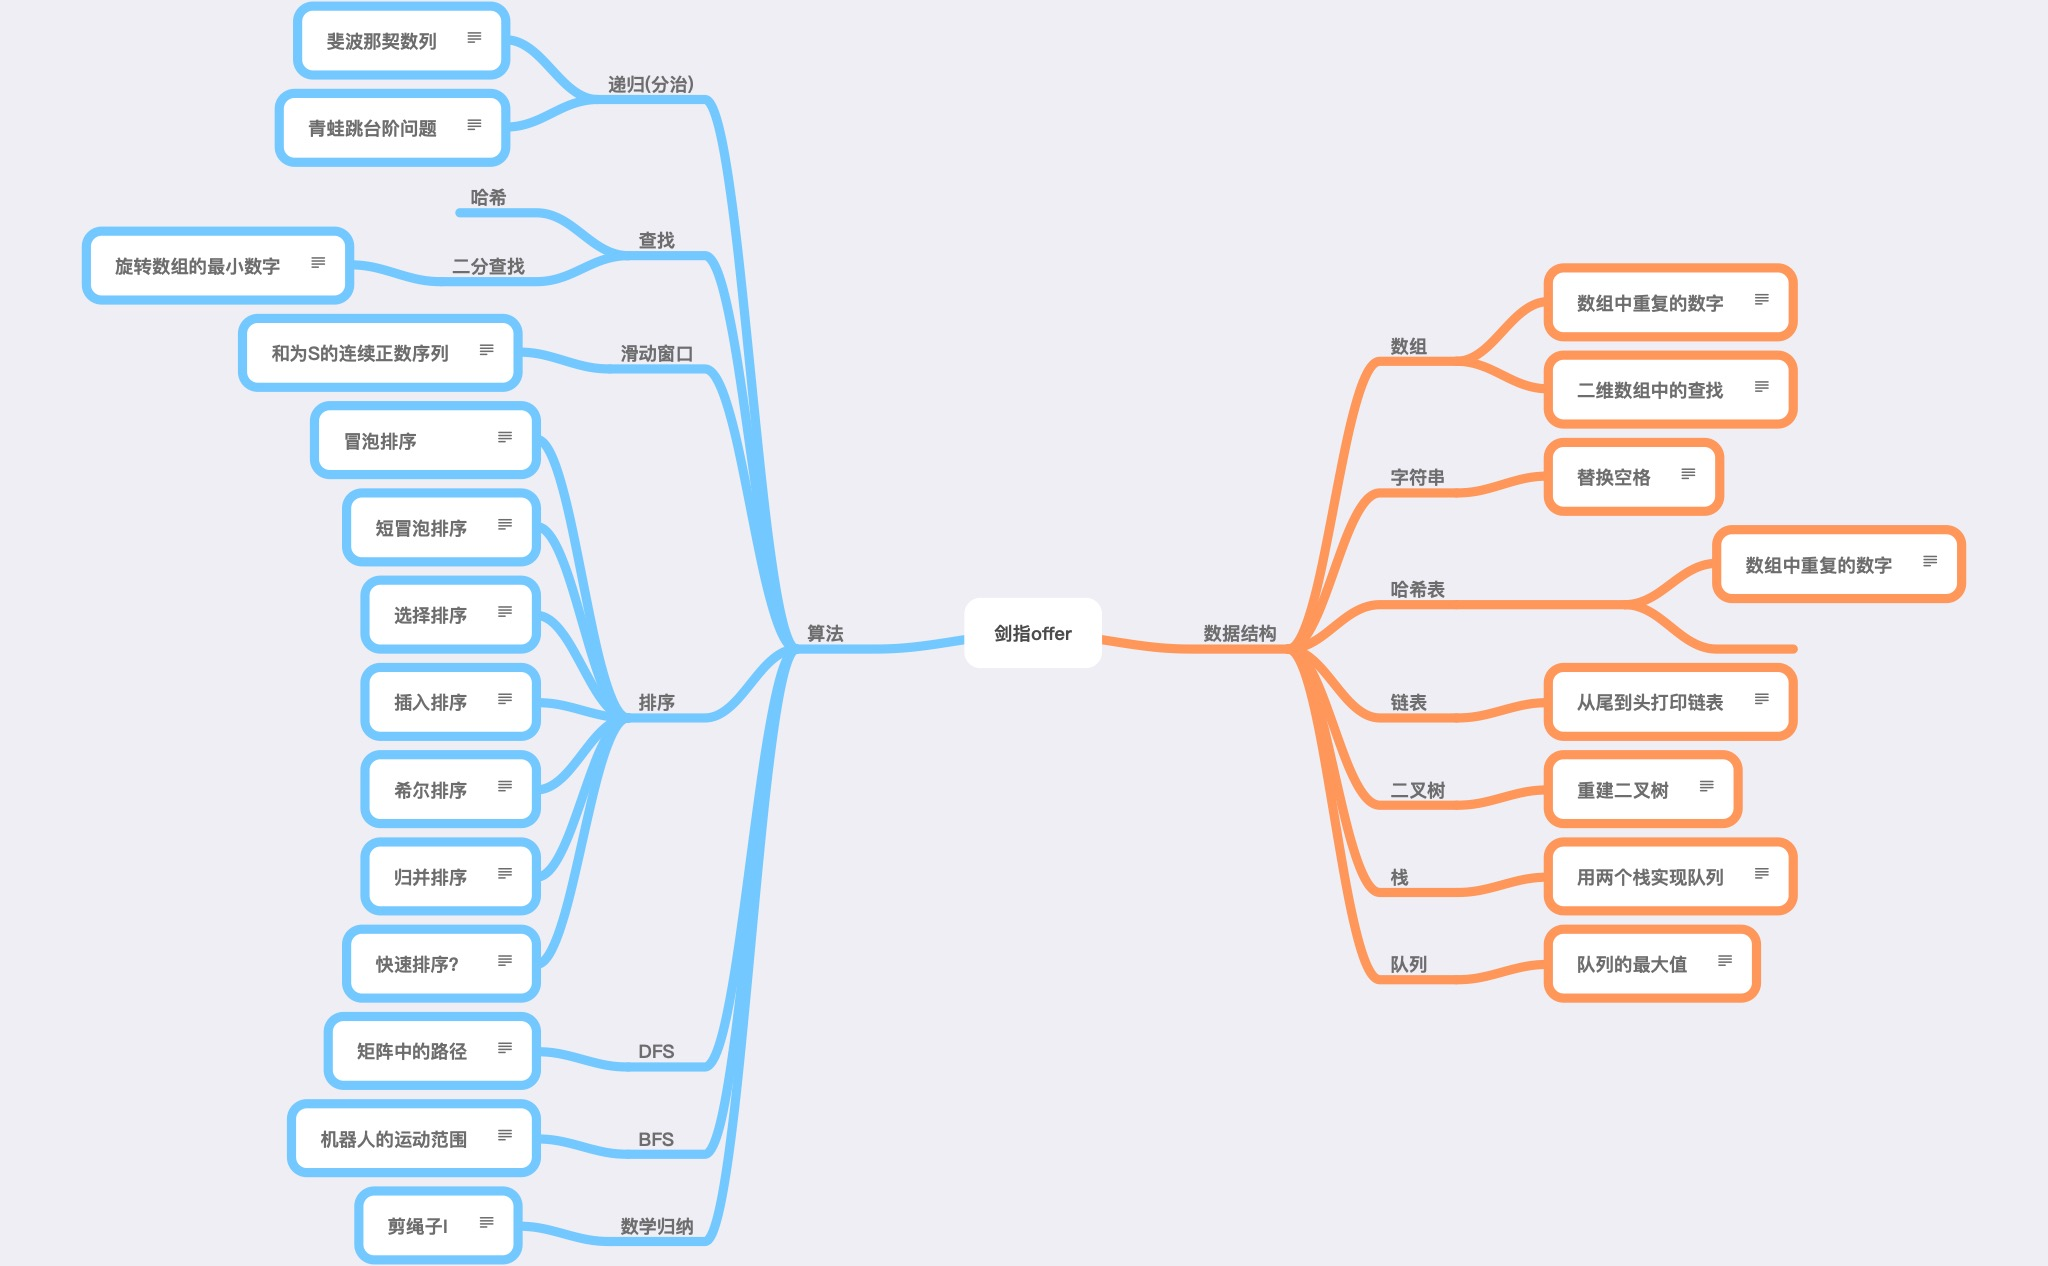
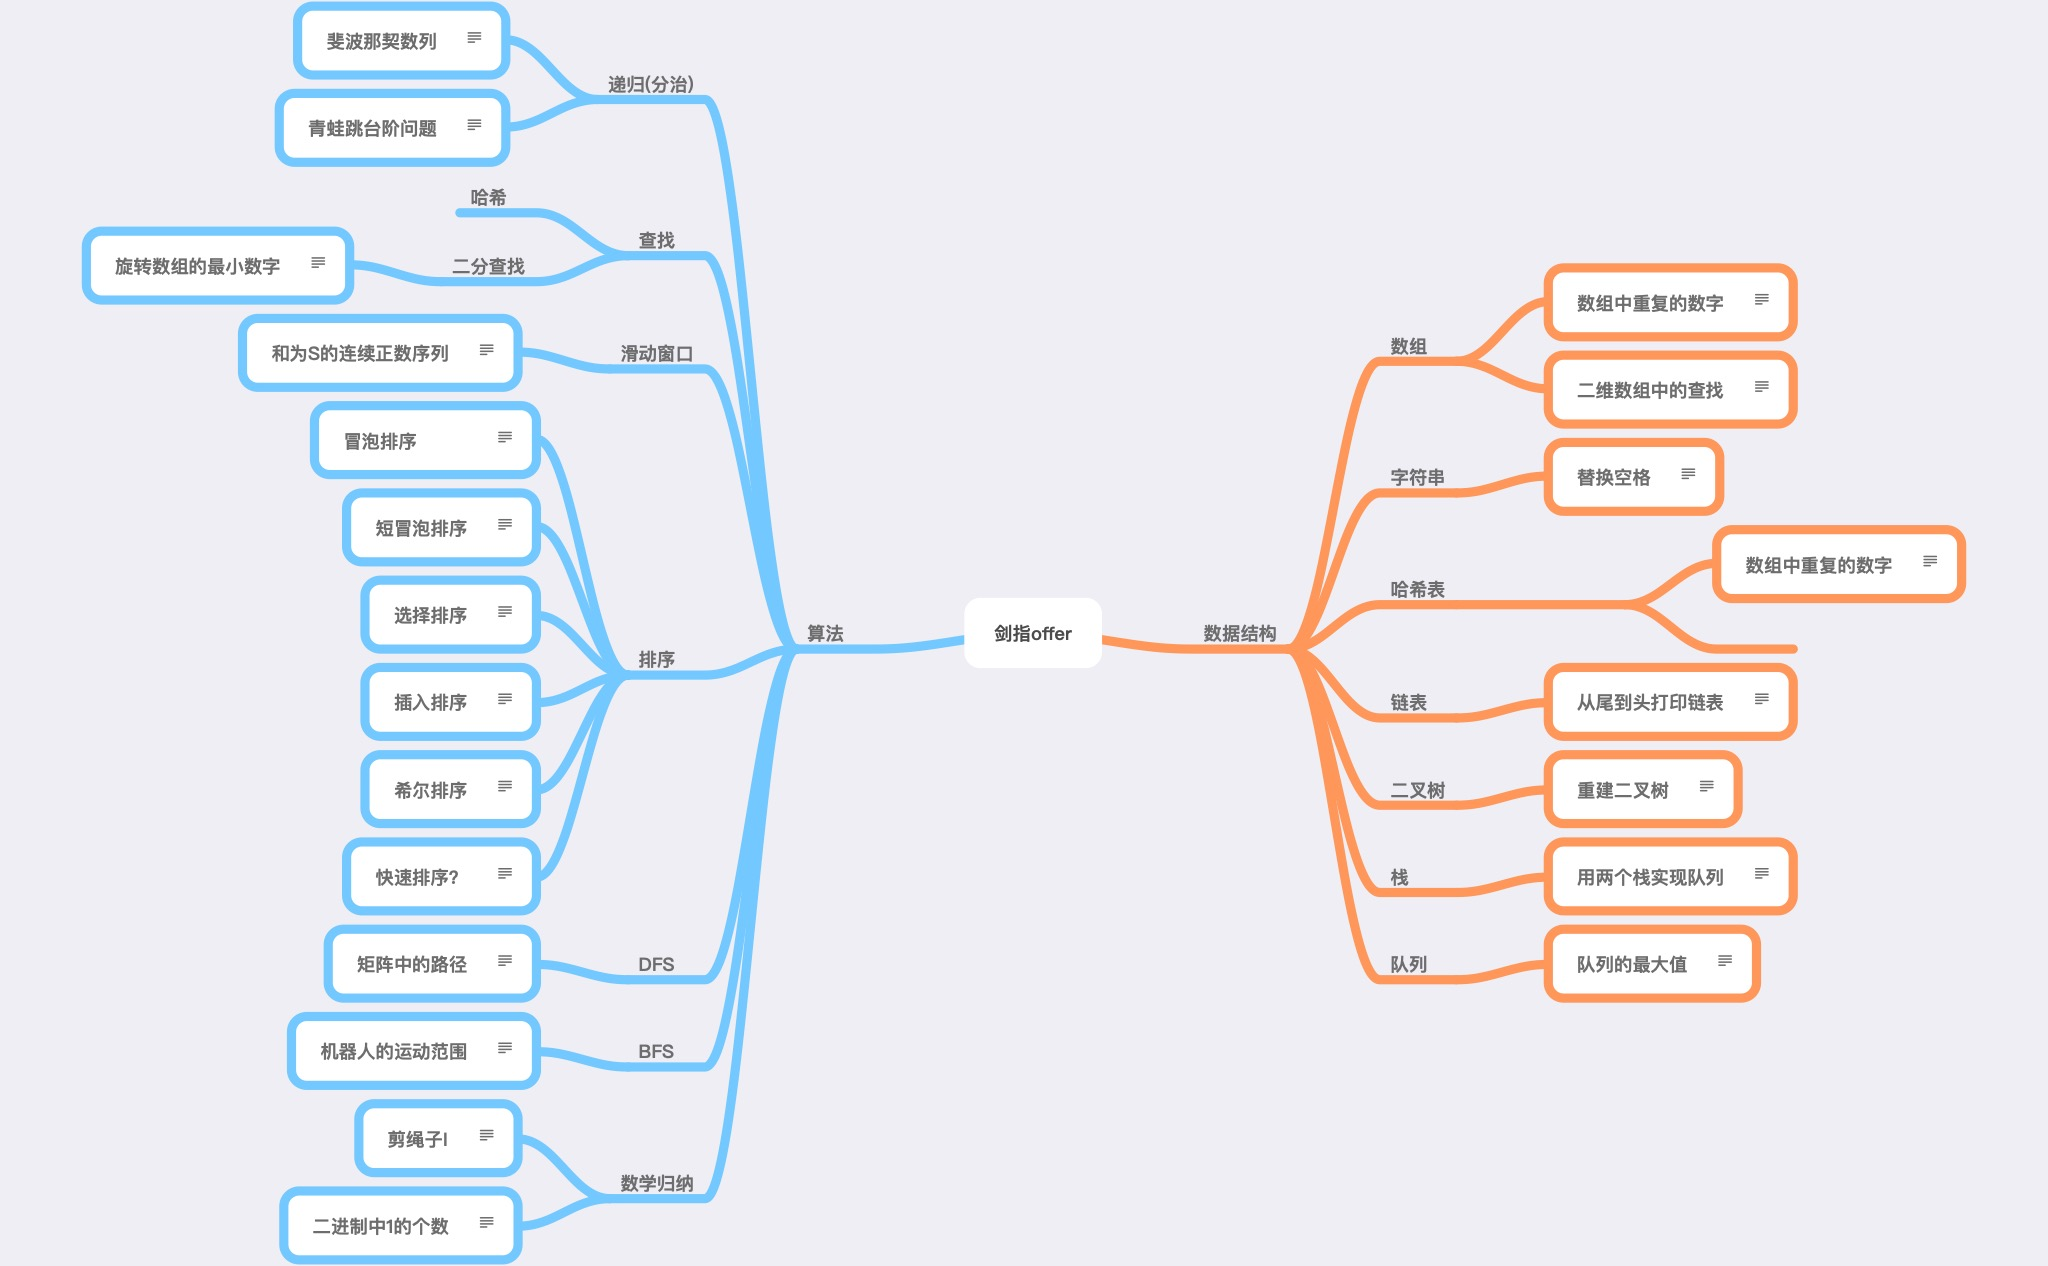
add offer15

Changed region(s): [[0.125, 0.6161, 0.375, 1.0], [0.25, 0.3697, 0.375, 0.7701]]

diff --git a/offer-15/offer-15.py b/offer-15/offer-15.py
@@ -1,0 +1,21 @@
+#!/usr/bin/env python
+# -*- coding: utf-8 -*-
+# ylgongPw @ 2020-03-16 15:56:20
+class Solution:
+    def hammingWeight(self, n: int) -> int:
+        val = n
+        count = 0
+        while val > 0:
+            bit = val % 2 #最后一位
+            val = val // 2
+            if bit == 1:
+                count += 1
+
+        return count
+
+
+if __name__ == '__main__':
+    S = Solution()
+    ret = S.hammingWeight(9)
+    print (ret)
+

diff --git a/offer-15/offer-15.md b/offer-15/offer-15.md
@@ -1,0 +1,27 @@
+# 题目描述 
+
+```
+请实现一个函数，输入一个整数，输出该数二进制表示中 1 的个数。例如，把 9 表示成二进制是 1001，有 2 位是 1。因此，如果输入 9，则该函数输出 2。
+
+示例 1：
+
+输入：00000000000000000000000000001011
+输出：3
+解释：输入的二进制串 00000000000000000000000000001011 中，共有三位为 '1'。
+示例 2：
+
+输入：00000000000000000000000010000000
+输出：1
+解释：输入的二进制串 00000000000000000000000010000000 中，共有一位为 '1'。
+
+```
+
+# 解题思路
+* 计算二进制结果
+* 计算的过程中统计1出现的次数
+
+## 解题代码
+
+[二进制中1的个数](offer-15.py)
+
+

diff --git a/offer.md b/offer.md
@@ -13,5 +13,6 @@
 | 面试题-13 | 中等 | [机器人的运动范围](offer-13/offer-13.md) |  |
 | 面试题-14.1 | 中等 | [剪绳子I](offer-14.1/offer-14.1.md) |  |
 | 面试题-14.2 | 中等 | [剪绳子II](offer-14.2/offer-14.2.md) |  |
+| 面试题-15 | 简单 | [二进制中1的个数](offer-15/offer-15.md) |  |
 | 面试题-57-II | 简单 | [和为S的连续正数序列](offer-57/offer-57.md) |  |
 | 面试题-59-II | 简单 | [队列中的最大值](offer-59.1/offer-59.1.md) |  |
